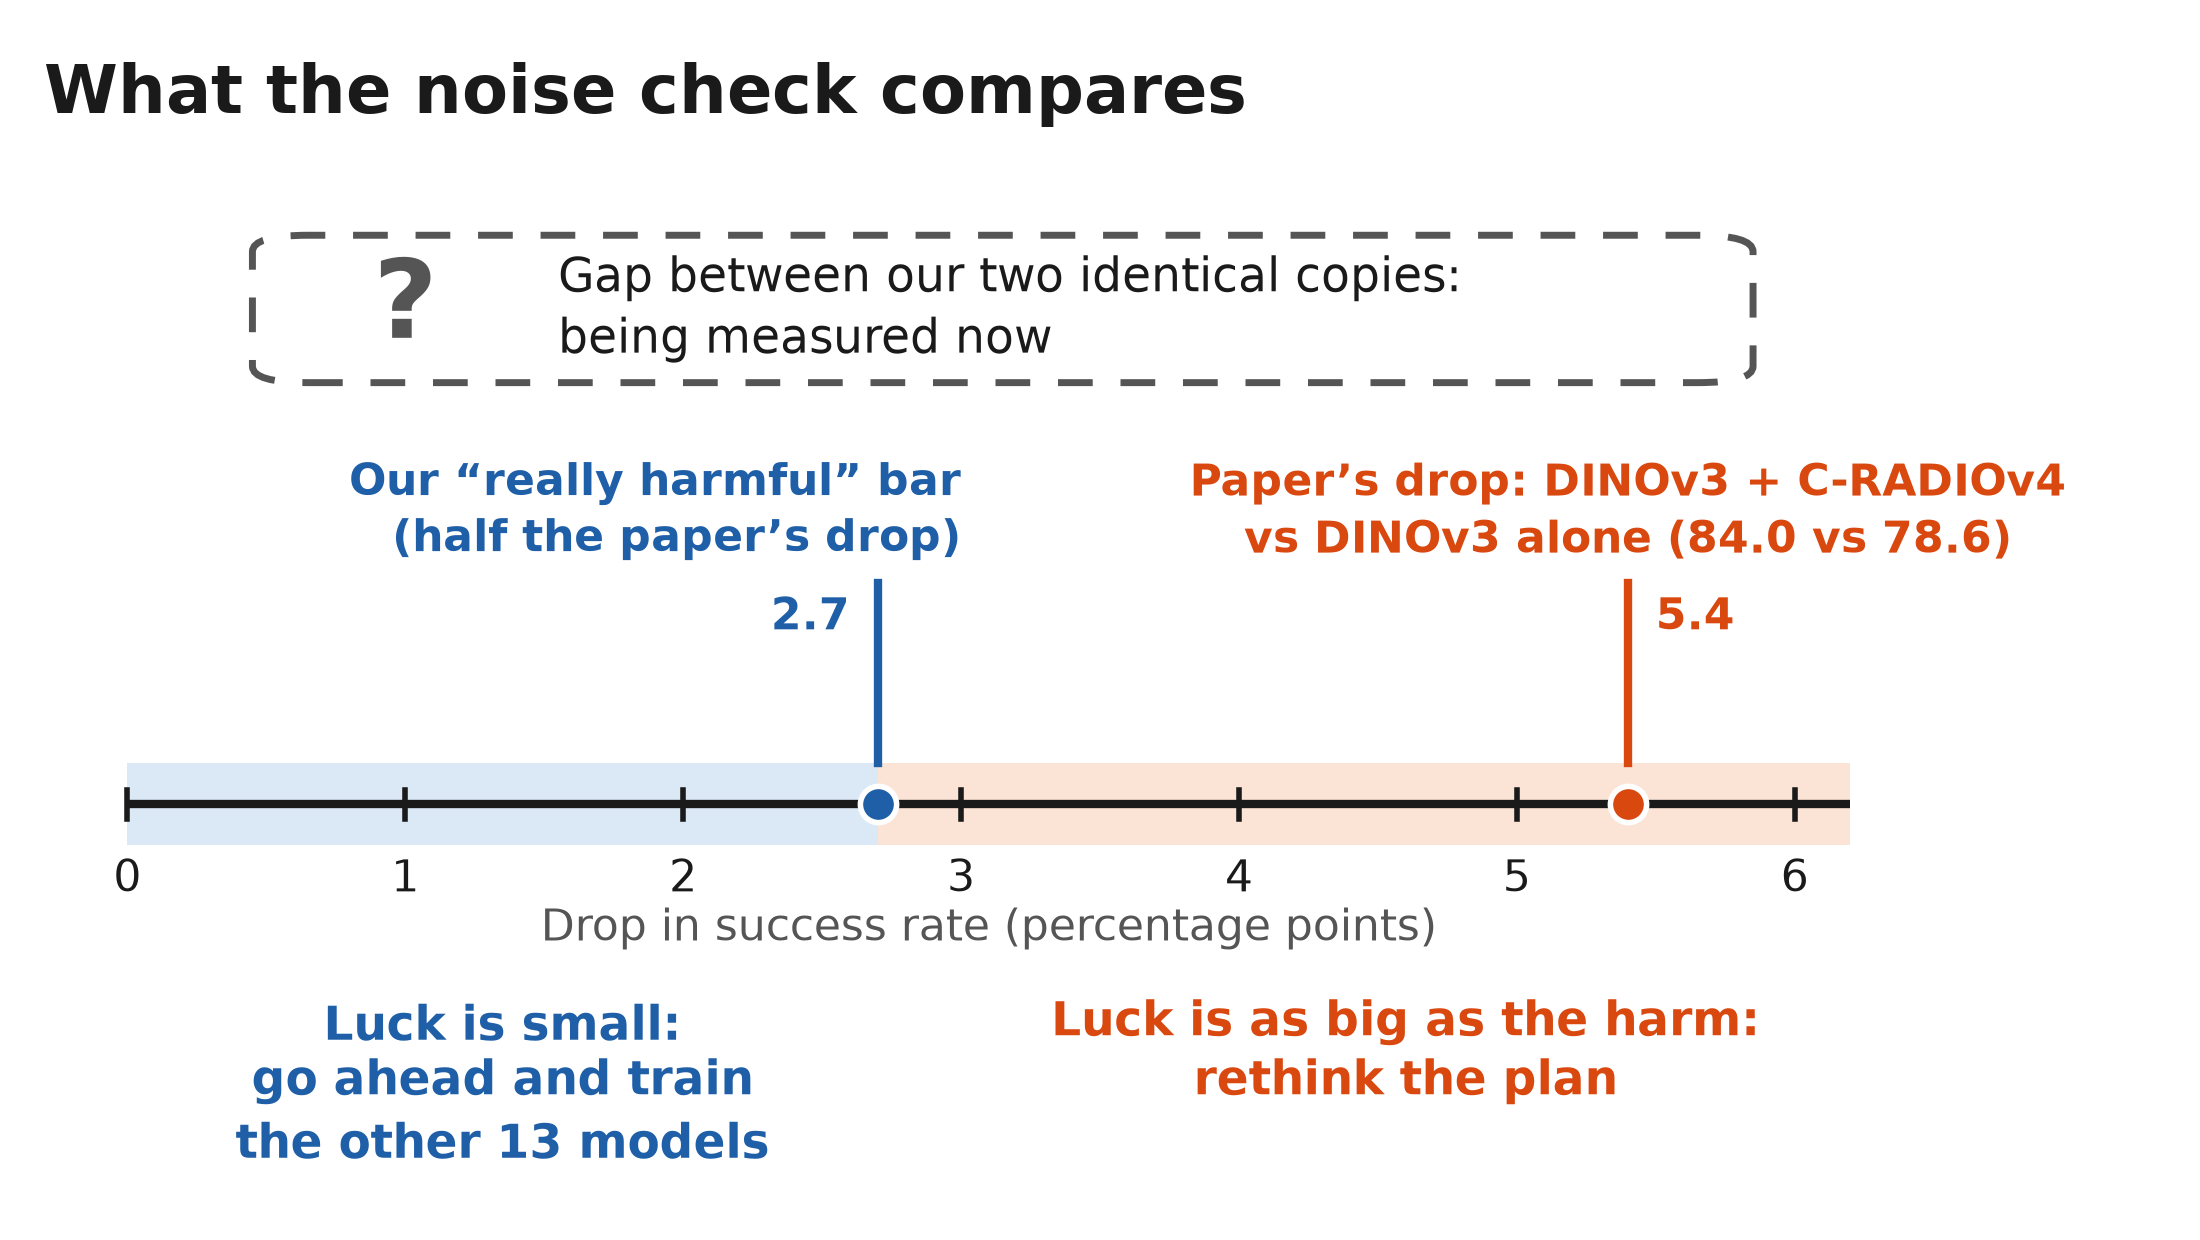
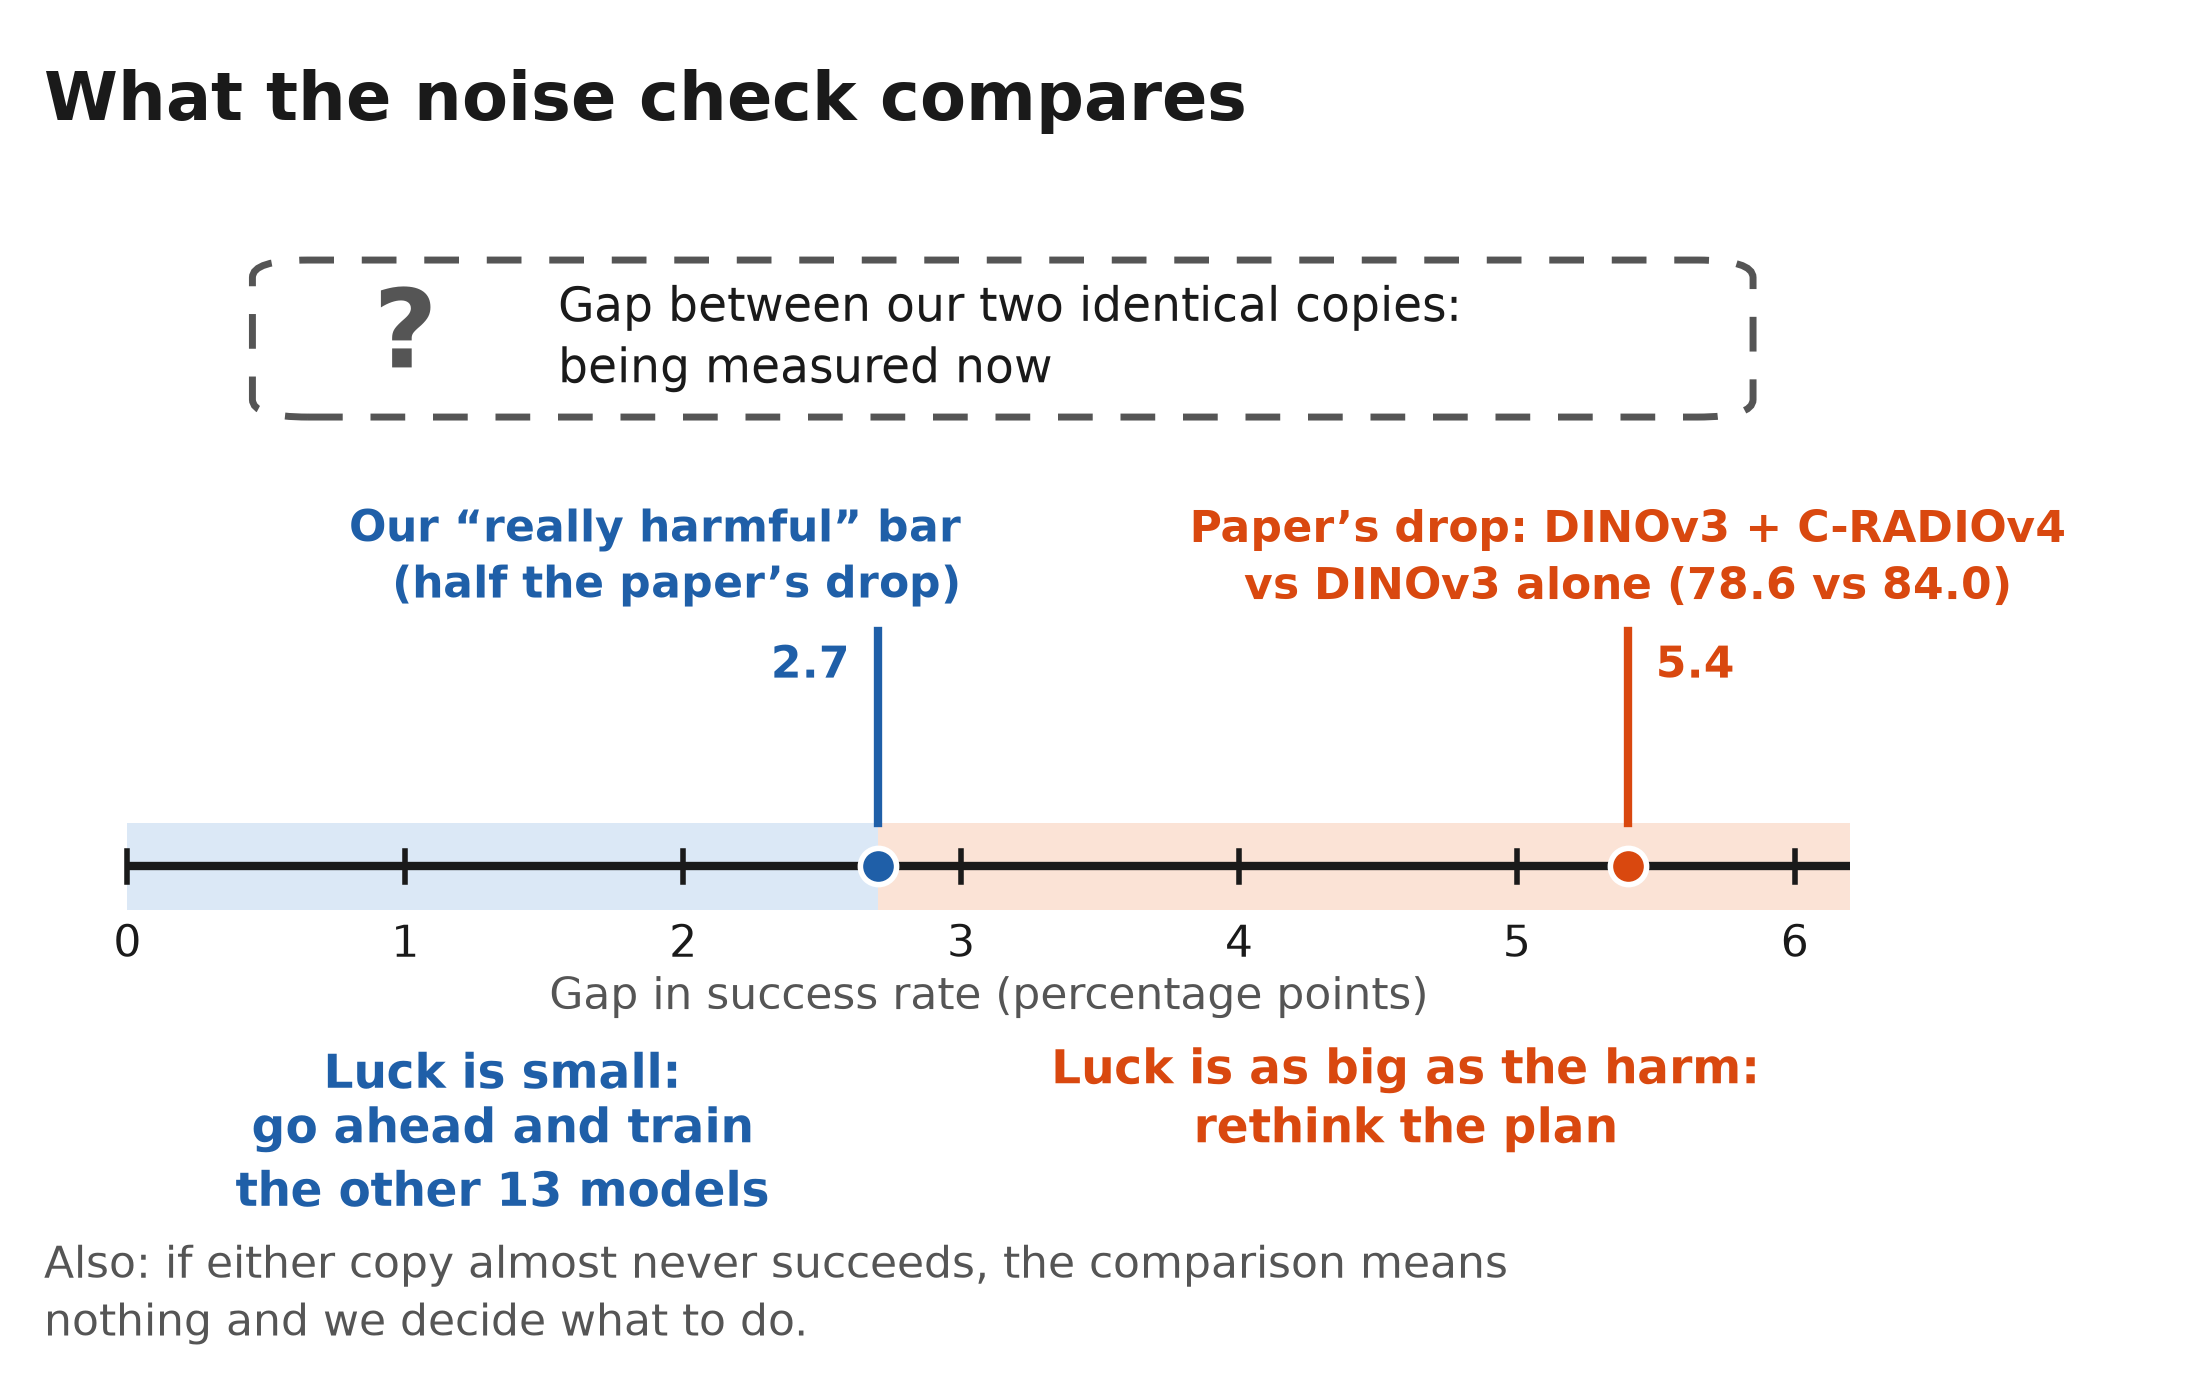
world-model-stacking-encoders: slide diagrams fixed after review

diff --git a/world-model-stacking-encoders/src/plot_slide_diagrams.py b/world-model-stacking-encoders/src/plot_slide_diagrams.py
@@ -46,7 +46,8 @@ def arrow(ax, p, q, color=GREY, lw=2.5, rad=0.0):
 
 
 # ---------------------------------------------------------------- 1. noise-check ruler
-fig, ax = new(11, 6.2, "What the noise check compares")
+fig, ax = new(11, 6.9, "What the noise check compares")
+ax.set_position((0.02, 0.17, 0.96, 0.67))
 ax.set_xlim(-0.3, 7.3)
 ax.set_ylim(-3.2, 7.4)
 Y0, H = 0.0, 0.5
@@ -56,15 +57,15 @@ ax.plot([0, 6.2], [Y0, Y0], color=INK, lw=3, solid_capstyle="butt")
 for t in range(0, 7):
     ax.plot([t, t], [Y0 - 0.18, Y0 + 0.18], color=INK, lw=2)
     ax.text(t, Y0 - 0.65, str(t), ha="center", va="top", fontsize=16, color=INK)
-ax.text(3.1, Y0 - 1.25, "Drop in success rate (percentage points)", ha="center", va="top", fontsize=16, color=GREY)
+ax.text(3.1, Y0 - 1.25, "Gap in success rate (percentage points)", ha="center", va="top", fontsize=16, color=GREY)
 # zone labels
-ax.text(1.35, -2.3, "Luck is small:\ngo ahead and train\nthe other 13 models", ha="center", va="top",
+ax.text(1.35, -2.0, "Luck is small:\ngo ahead and train\nthe other 13 models", ha="center", va="top",
         fontsize=17, fontweight="bold", color=BLUE, linespacing=1.25)
-ax.text(4.6, -2.3, "Luck is as big as the harm:\nrethink the plan", ha="center", va="top",
+ax.text(4.6, -2.0, "Luck is as big as the harm:\nrethink the plan", ha="center", va="top",
         fontsize=17, fontweight="bold", color=ORANGE, linespacing=1.25)
 # marks
 for x, col, txt in ((2.7, BLUE, "Our “really harmful” bar\n(half the paper’s drop)"),
-                    (5.4, ORANGE, "Paper’s drop: DINOv3 + C-RADIOv4\nvs DINOv3 alone (84.0 vs 78.6)")):
+                    (5.4, ORANGE, "Paper’s drop: DINOv3 + C-RADIOv4\nvs DINOv3 alone (78.6 vs 84.0)")):
     ax.plot([x, x], [Y0 + H, 2.7], color=col, lw=3)
     ax.scatter([x], [Y0], s=170, color=col, zorder=5, edgecolor="white", linewidth=2)
     ax.text(x + (0.3 if x < 3 else 0), 2.9, txt, ha="right" if x < 3 else "center", va="bottom", fontsize=16, fontweight="bold", color=col, linespacing=1.25)
@@ -76,82 +77,96 @@ ax.add_patch(FancyBboxPatch((0.5, 5.2), 5.3, 1.7, boxstyle="round,pad=0.05,round
 ax.text(1.0, 6.05, "?", ha="center", va="center", fontsize=40, fontweight="bold", color=GREY)
 ax.text(1.55, 6.05, "Gap between our two identical copies:\nbeing measured now", ha="left", va="center",
         fontsize=17, color=INK, linespacing=1.3)
+fig.text(0.02, 0.02, "Also: if either copy almost never succeeds, the comparison means\nnothing and we decide what to do.",
+         fontsize=16, color=GREY, ha="left", va="bottom", linespacing=1.3)
 save(fig, "2026-11-07-noise-check-ruler.png")
 
 # ---------------------------------------------------------------- 2. combining grids
-fig, ax = new(13, 8.4, "How our copy stacks the encoders")
-ax.set_position((0.02, 0.14, 0.96, 0.74))
-ax.set_xlim(0, 126)
-ax.set_ylim(-2, 60)
+# Axes units are inches (1 unit = 1 in), so text sizes are easy to reason about.
+# Figure is 9.5 in wide: scaled to ~5 in on a slide, 18 pt text stays at about 9.5 pt.
+fig = plt.figure(figsize=(9.5, 10.2), dpi=200)
+fig.patch.set_facecolor("white")
+ax = fig.add_axes((0.02, 1.35 / 10.2, 0.96, 7.9 / 10.2))
+ax.axis("off")
+fig.text(0.02, 0.975, "How our copy stacks the encoders", fontsize=26, fontweight="bold", color=INK, ha="left", va="top")
+ax.set_xlim(0, 9.12)
+ax.set_ylim(0, 7.9)
 ax.set_aspect("equal")
 C_VAE, C_DINO, C_RAD = "#8a8a8a", BLUE, ORANGE
 
 
-def lattice(x, y, n, col, size=12):
+def lattice(x, y, n, col, size=1.3):
     ax.add_patch(Rectangle((x, y), size, size, fill=False, ec=col, lw=2.2))
     step = size / n
     for i in range(1, n):
-        ax.plot([x + i * step] * 2, [y, y + size], color=col, lw=0.7 if n > 14 else 1.0)
-        ax.plot([x, x + size], [y + i * step] * 2, color=col, lw=0.7 if n > 14 else 1.0)
+        ax.plot([x + i * step] * 2, [y, y + size], color=col, lw=0.6 if n > 14 else 1.0)
+        ax.plot([x, x + size], [y + i * step] * 2, color=col, lw=0.6 if n > 14 else 1.0)
 
 
-rows = ((44, "VAE", "reference grid", "14 x 14 spots", "48 numbers per spot", C_VAE, 14),
-        (26, "DINOv3", None, "14 x 14 spots", "1,024 numbers per spot", C_DINO, 14),
-        (6, "C-RADIOv4", None, "28 x 28 spots (finer)", "1,152 numbers per spot", C_RAD, 28))
-for y, name, tag, g, nums, col, n in rows:
-    lattice(34, y, n, col)
-    if tag:
-        ax.text(10, y + 12, "(" + tag + ")", fontsize=16, color=GREY, va="top", fontweight="bold")
-    ax.text(1, y + 12, name, fontsize=17, fontweight="bold", color=col, va="top")
-    ax.text(1, y + 8.6, g, fontsize=16, color=INK, va="top")
-    ax.text(1, y + 5.2, nums, fontsize=16, color=INK, va="top")
+def label(y_top, name, g, nums, col):
+    ax.text(1.5, y_top, name, fontsize=19, fontweight="bold", color=col, va="top")
+    ax.text(1.5, y_top - 0.46, g, fontsize=18, color=INK, va="top")
+    ax.text(1.5, y_top - 0.88, nums, fontsize=18, color=INK, va="top")
+
+
+lattice(0, 5.9, 14, C_VAE)
+label(7.2, "VAE (reference grid)", "14 x 14 spots", "48 numbers per spot", C_VAE)
+lattice(0, 3.7, 14, C_DINO)
+label(5.0, "DINOv3", "14 x 14 spots", "1,024 numbers per spot", C_DINO)
+lattice(0, 2.0, 28, C_RAD)
+label(3.3, "C-RADIOv4", "28 x 28 spots (finer)", "1,152 numbers per spot", C_RAD)
 # shrink step for C-RADIOv4
-arrow(ax, (47, 12), (63, 12), C_RAD)
-ax.text(55, 13.5, "shrink to\n14 x 14", ha="center", va="bottom", fontsize=16, fontweight="bold", color=C_RAD, linespacing=1.15)
-lattice(66, 6, 14, C_RAD)
-# arrows into stack
-arrow(ax, (47, 50), (86, 46), C_VAE)
-arrow(ax, (47, 32), (86, 38), C_DINO)
-arrow(ax, (79, 12), (86, 25), C_RAD)
+arrow(ax, (0.65, 1.92), (0.65, 1.5), C_RAD)
+ax.text(1.5, 1.72, "shrink to 14 x 14", fontsize=19, fontweight="bold", color=C_RAD, va="center")
+lattice(0, 0.1, 14, C_RAD)
+# arrows into the stack
+arrow(ax, (4.8, 6.7), (5.9, 5.45), C_VAE)
+arrow(ax, (4.8, 4.4), (5.9, 4.5), C_DINO)
+ax.plot([1.5, 5.5], [0.75, 0.75], color=C_RAD, lw=2.5, solid_capstyle="butt")
+ax.plot([5.5, 5.5], [0.75, 3.1], color=C_RAD, lw=2.5, solid_capstyle="butt")
+arrow(ax, (5.5, 3.1), (5.9, 3.1), C_RAD)
 # stack block (segment heights only roughly suggest size, not to scale)
-for (y0, h, col, t) in ((44, 4, C_VAE, "VAE  48"), (32, 12, C_DINO, "DINOv3  1,024"), (18, 14, C_RAD, "C-RADIOv4  1,152")):
-    ax.add_patch(Rectangle((88, y0), 30, h, fc=col, ec="white", lw=2.5))
-    ax.text(103, y0 + h / 2, t, ha="center", va="center", fontsize=14, fontweight="bold", color="white")
-ax.text(90, 15.5, "At each of the 14 x 14 spots:\n48 + 1,024 + 1,152\n= 2,224 numbers per spot,\ngoes into the robot model", ha="left", va="top",
-        fontsize=15, fontweight="bold", color=INK, linespacing=1.3)
-ax.text(88, 51.5, "Before stacking, each encoder's\nnumbers are rescaled to a similar\nsize (\u201cevens out the volume\u201d)",
-        ha="left", va="bottom", fontsize=14, color=GREY, linespacing=1.25)
-fig.text(0.02, 0.03, "Our copy. The paper doesn't say how it lines up or rescales the grids.\nBlock sizes are not to scale. Numbers are per camera image.",
+for (y0, h, col, t) in ((5.2, 0.4, C_VAE, "VAE  48"), (3.9, 1.25, C_DINO, "DINOv3  1,024"), (2.4, 1.45, C_RAD, "C-RADIOv4  1,152")):
+    ax.add_patch(Rectangle((6.0, y0), 3.1, h, fc=col, ec="white", lw=2.5))
+    ax.text(7.55, y0 + h / 2, t, ha="center", va="center", fontsize=16, fontweight="bold", color="white")
+ax.text(6.0, 2.15, "At each of the\n14 x 14 spots:\n48 + 1,024 + 1,152\n= 2,224 numbers,\ninto the robot model", ha="left", va="top",
+        fontsize=16, fontweight="bold", color=INK, linespacing=1.3)
+ax.text(6.0, 5.85, "Before stacking, DINOv3's\nand C-RADIOv4's numbers\nare rescaled to a similar\nsize (the VAE's are not)",
+        ha="left", va="bottom", fontsize=15, color=GREY, linespacing=1.25)
+fig.text(0.02, 0.02, "Our copy. The paper doesn't say how it\nlines up or rescales the grids.\nBlock sizes are not to scale. Numbers are per camera image.",
          fontsize=17, color=GREY, ha="left", va="bottom", linespacing=1.3)
 save(fig, "2026-11-07-combining-grids.png")
 
 # ---------------------------------------------------------------- 3. encoder layers
-fig, ax = new(11, 7.4, "We only use each encoder's final layer")
+fig, ax = new(8, 7.2, "We only use each encoder's final layer")
 ax.set_xlim(0, 100)
-ax.set_ylim(0, 64)
-labels = ["layer 1", "layer 2", "layer 3", "layer 4", "layer 5", "layer 6", "final layer"]
-bh, gap, y = 5.4, 1.4, 9
-ax.add_patch(Rectangle((8, 0.5), 28, 5.2, fc=LIGHT, ec=GREY, lw=2))
-ax.text(22, 3.1, "Camera image", ha="center", va="center", fontsize=17, color=INK)
-arrow(ax, (22, 5.9), (22, y - 0.1), GREY)
+ax.set_ylim(0, 48)
+bh, gap, y = 5.4, 1.6, 9
+ax.add_patch(Rectangle((4, 0.5), 38, 5.2, fc=LIGHT, ec=GREY, lw=2))
+ax.text(23, 3.1, "Camera image", ha="center", va="center", fontsize=18, color=INK)
+arrow(ax, (23, 5.9), (23, y - 0.1), GREY)
+slots = ["earlier layer", "dots", "earlier layer", "final layer"]
 ys = []
-for i, t in enumerate(labels):
+for i, t in enumerate(slots):
     yy = y + 1.2 + i * (bh + gap)
     ys.append(yy)
-    last = i == len(labels) - 1
-    ax.add_patch(FancyBboxPatch((8, yy), 28, bh, boxstyle="round,pad=0,rounding_size=0.8",
+    if t == "dots":
+        ax.text(23, yy + bh / 2, "⋮", ha="center", va="center", fontsize=34, color=GREY)
+        ax.text(27, yy + bh / 2, "many more", ha="left", va="center", fontsize=16, color=GREY)
+        continue
+    last = t == "final layer"
+    ax.add_patch(FancyBboxPatch((4, yy), 38, bh, boxstyle="round,pad=0,rounding_size=0.8",
                                 fc=ORANGE if last else "#f2f2f2", ec=ORANGE if last else GREY, lw=3 if last else 2,
                                 ls="-" if last else (0, (4, 3))))
-    ax.text(22, yy + bh / 2, t, ha="center", va="center", fontsize=17, fontweight="bold" if last else "normal",
+    ax.text(23, yy + bh / 2, t, ha="center", va="center", fontsize=18, fontweight="bold" if last else "normal",
             color="white" if last else GREY)
 top = ys[-1] + bh
-arrow(ax, (22, top + 0.2), (22, top + 3.6), ORANGE)
-ax.text(22, top + 4.2, "Features out", ha="center", va="bottom", fontsize=17, color=INK, fontweight="bold")
-# right-hand labels
-ax.plot([39, 39], [ys[0], ys[-2] + bh], color=GREY, lw=3)
-ax.text(42, (ys[0] + ys[-2] + bh) / 2, "Not explored yet:\nwhat do they add?", ha="left", va="center",
-        fontsize=19, fontweight="bold", color=GREY, linespacing=1.3)
-ax.plot([39, 39], [ys[-1], top], color=ORANGE, lw=3)
-ax.text(42, ys[-1] + bh / 2, "Used by the paper\nand by us", ha="left", va="center",
-        fontsize=19, fontweight="bold", color=ORANGE, linespacing=1.3)
+arrow(ax, (23, top + 0.2), (23, top + 3.6), ORANGE)
+ax.text(23, top + 4.2, "Features out", ha="center", va="bottom", fontsize=18, color=INK, fontweight="bold")
+ax.plot([45, 45], [ys[0], ys[-2] + bh], color=GREY, lw=3)
+ax.text(48, (ys[0] + ys[-2] + bh) / 2, "Not explored yet:\nwhat do they add?", ha="left", va="center",
+        fontsize=20, fontweight="bold", color=GREY, linespacing=1.3)
+ax.plot([45, 45], [ys[-1], top], color=ORANGE, lw=3)
+ax.text(48, ys[-1] + bh / 2, "Used by the paper\nand by us", ha="left", va="center",
+        fontsize=20, fontweight="bold", color=ORANGE, linespacing=1.3)
 save(fig, "2026-11-07-encoder-layers.png")
